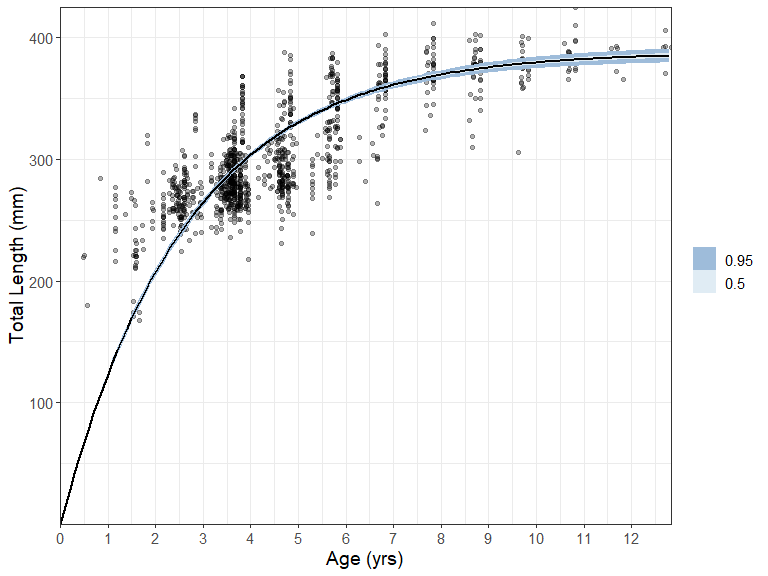
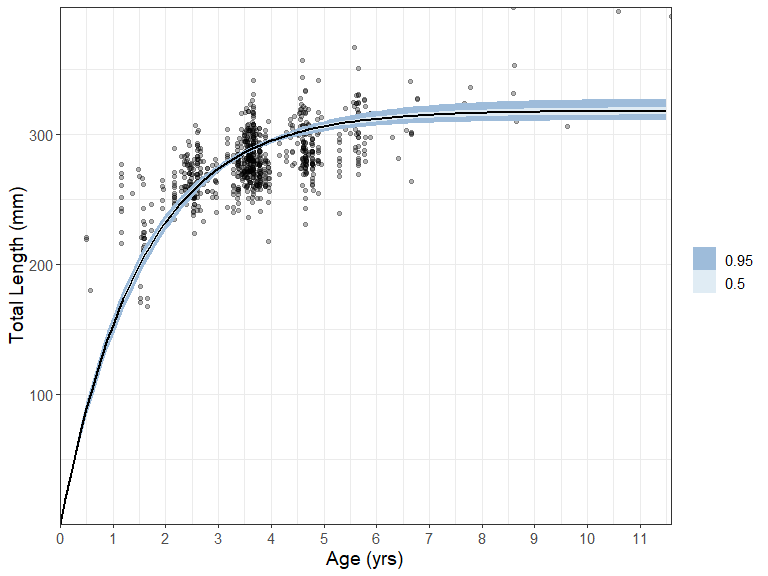
Readme updated

diff --git a/README.md b/README.md
@@ -1,30 +1,58 @@
 
 <!-- README.md is generated from README.Rmd. Please edit that file -->
-BayesGrowth
-===========
+
+# BayesGrowth
 
 <!-- badges: start -->
-[![Travis build status](https://travis-ci.org/jonathansmart/BayesGrowth.svg?branch=master)](https://travis-ci.org/jonathansmart/BayesGrowth) <!-- badges: end -->
 
-BayesGrowth combines length-at-age modelling for fisheries with MCMC implemented using JAGS and the [rjags](https://cran.r-project.org/web/packages/rjags/index.html) package. Growth modelling using models such as the von Bertalanffy growth model involves three parameters: *L*<sub>∞</sub>, *k* and either *L*<sub>0</sub> or *t*<sub>0</sub>. Two of these parameters: *L*<sub>0</sub> and *L*<sub>∞</sub> have direct biological meaning as the size-at-birth and maximum length, respectively. This package provides the tools to run an MCMC model with these two parameters treated as size-at-birth and maximum length using a JAGS model. This MCMC model is pre-specified and built into wrapper functions.
+[![Travis build
+status](https://travis-ci.org/jonathansmart/BayesGrowth.svg?branch=master)](https://travis-ci.org/jonathansmart/BayesGrowth)
+<!-- badges: end -->
 
-The user can therefore run an MCMC growth model using knowledge of species length-at-birth and maximum size as priors.
+BayesGrowth combines length-at-age modelling for fisheries with MCMC
+implemented using JAGS and the
+[rjags](https://cran.r-project.org/web/packages/rjags/index.html)
+package. Growth modelling using models such as the von Bertalanffy
+growth model involves three parameters: \(L_{\infty}\), \(k\) and either
+\(L_{0}\) or \(t_{0}\). Two of these parameters: \(L_{0}\) and
+\(L_{\infty}\) have direct biological meaning as the size-at-birth and
+maximum length, respectively. This package provides the tools to run an
+MCMC model with these two parameters treated as size-at-birth and
+maximum length using a JAGS model. This MCMC model is pre-specified and
+built into wrapper functions.
 
-Installation
-------------
+The user can therefore run an MCMC growth model using knowledge of
+species length-at-birth and maximum size as priors.
 
-This package provides a series of wrapper functions to the rjags package which will run JAGS ("Just Another Gibbs Sampler") MCMC models. Therefore, **JAGS must be installed before this package is installed**. To install JAGS, visit: <https://sourceforge.net/projects/mcmc-jags/files/>
+## Installation
 
-You can install the released version of BayesGrowth from [Github](https://github.com/jonathansmart/BayesGrowth) with:
+This package provides a series of wrapper functions to the rjags package
+which will run JAGS (“Just Another Gibbs Sampler”) MCMC models.
+Therefore, **JAGS must be installed before this package is installed**.
+To install JAGS, visit:
+<https://sourceforge.net/projects/mcmc-jags/files/>
+
+You can install the released version of BayesGrowth from
+[Github](https://github.com/jonathansmart/BayesGrowth) with:
 
 ``` r
 devtools::install_github("jonathansmart/BayesGrowth")
 ```
 
-Usage
------
+## Usage
 
-The main `BayesGrowth` function is `Estimate_MCMC_Growth` which is the wrapper function around an rjags model. It requires a data input that includes columns that can be identified "Age" and "Length", the model needs to be specified (several options are available) and the priors must be specified. Priors include the max size with an error, length-at-birth with an error and upper limits for *k* and *σ*. These latter two parameters have no informative priors and only require sensible upper bounds. Many fish species (including this example) have a size at birth of zero. Therefore, this can value can be used as a prior along with a very small error to indicate high certainty of this prior. The `L0.se` argument cannot be zero, but the model is specified to truncate *L*<sub>0</sub> at zero and keep growth positive.
+The main `BayesGrowth` function is `Estimate_MCMC_Growth` which is the
+wrapper function around an rjags model. It requires a data input that
+includes columns that can be identified “Age” and “Length”, the model
+needs to be specified (several options are available) and the priors
+must be specified. Priors include the max size with an error,
+length-at-birth with an error and upper limits for \(k\) and \(\sigma\).
+These latter two parameters have no informative priors and only require
+sensible upper bounds. Many fish species (including this example) have a
+size at birth of zero. Therefore, this can value can be used as a prior
+along with a very small error to indicate high certainty of this prior.
+The `L0.se` argument cannot be zero, but the model is specified to
+truncate \(L_{0}\) at zero and keep growth positive.
 
 ``` r
 library(BayesGrowth)
@@ -32,22 +60,23 @@ library(BayesGrowth)
 data("example_data")
 ## Biological info - lengths in mm
 max_size <- 440
-max_size_se <- 4.4
+max_size_se <- 5
 birth_size <- 0
 birth_size_se <- 0.001 # an se cannot be zero
 
 # Use the function to estimate the JAGS model
 results <- Estimate_MCMC_Growth(example_data, Model = "VB" ,
                      iter = 10000,
-                     Linf = 440,
-                     Linf.se = 4.4,
-                     L0 = 0,
+                     Linf = max_size,
+                     Linf.se = max_size_se,
+                     L0 = birth_size,
                      sigma.max = 100,
-                     L0.se = .001,
+                     L0.se = birth_size_se,
                      k.max = 1)
 ```
 
-The function returns the rjags outputs which is an object of class 'mcmc.list'
+The function returns the rjags outputs which is an object of class
+‘mcmc.list’
 
 ``` r
 head(results)
@@ -57,13 +86,13 @@ head(results)
 #> End = 1007 
 #> Thinning interval = 1 
 #>                L0     Linf         k    sigma
-#> [1,] 9.569273e-04 390.1958 0.3848924 33.85797
-#> [2,] 4.067566e-04 387.0640 0.3834602 33.34804
-#> [3,] 1.413548e-04 389.4191 0.3749205 32.69723
-#> [4,] 4.676487e-04 390.5338 0.3762362 33.01676
-#> [5,] 6.423364e-05 390.5068 0.3774113 33.06027
-#> [6,] 4.414119e-04 389.8423 0.3789968 32.41419
-#> [7,] 1.287751e-03 387.0774 0.3803874 32.67245
+#> [1,] 1.483223e-04 317.9185 0.6584323 23.09712
+#> [2,] 1.088073e-04 314.9857 0.7077662 23.94156
+#> [3,] 6.927317e-04 312.7845 0.6974341 24.31017
+#> [4,] 1.094180e-03 313.6392 0.6831496 23.85641
+#> [5,] 2.335037e-04 313.6508 0.6846770 23.45256
+#> [6,] 3.932446e-05 315.5822 0.6830659 23.71317
+#> [7,] 1.172375e-03 315.3345 0.6751340 23.89506
 #> 
 #> [[2]]
 #> Markov Chain Monte Carlo (MCMC) output:
@@ -71,13 +100,13 @@ head(results)
 #> End = 1007 
 #> Thinning interval = 1 
 #>                L0     Linf         k    sigma
-#> [1,] 0.0002511498 385.9061 0.3899029 33.57525
-#> [2,] 0.0012376698 386.5598 0.3883286 33.40353
-#> [3,] 0.0012621650 383.8936 0.3944821 33.08603
-#> [4,] 0.0003852762 383.3767 0.3925615 32.69749
-#> [5,] 0.0019371831 383.5260 0.3937610 33.82304
-#> [6,] 0.0015517513 381.7044 0.3995990 33.05927
-#> [7,] 0.0014588565 381.7352 0.3988780 34.05518
+#> [1,] 6.244722e-06 321.6067 0.6252368 24.62203
+#> [2,] 2.099683e-04 321.0802 0.6310686 25.22636
+#> [3,] 8.470106e-04 320.1362 0.6363388 24.55732
+#> [4,] 1.172123e-03 319.3396 0.6474557 24.62156
+#> [5,] 2.530439e-04 319.2197 0.6509728 24.56522
+#> [6,] 8.747307e-04 319.4180 0.6429824 24.36231
+#> [7,] 8.581534e-04 320.1235 0.6472748 24.40982
 #> 
 #> [[3]]
 #> Markov Chain Monte Carlo (MCMC) output:
@@ -85,13 +114,13 @@ head(results)
 #> End = 1007 
 #> Thinning interval = 1 
 #>                L0     Linf         k    sigma
-#> [1,] 1.769096e-03 391.2649 0.3757260 33.11727
-#> [2,] 5.758551e-04 389.8574 0.3779173 34.59689
-#> [3,] 8.458344e-04 391.0381 0.3741445 35.18781
-#> [4,] 3.349123e-05 392.1897 0.3727302 32.44165
-#> [5,] 6.751491e-04 391.1179 0.3709289 32.27036
-#> [6,] 1.079350e-03 390.8434 0.3763794 35.27099
-#> [7,] 1.512822e-03 390.0623 0.3726670 32.71365
+#> [1,] 0.0009256165 316.2487 0.6827975 24.43492
+#> [2,] 0.0010140519 315.3772 0.6783669 24.11184
+#> [3,] 0.0008368855 317.7474 0.6500937 24.24865
+#> [4,] 0.0002750489 320.1016 0.6347589 25.09238
+#> [5,] 0.0007506519 320.7512 0.6389933 25.46154
+#> [6,] 0.0008077506 320.9486 0.6390802 25.15107
+#> [7,] 0.0002158804 320.5103 0.6344164 25.07480
 #> 
 #> [[4]]
 #> Markov Chain Monte Carlo (MCMC) output:
@@ -99,13 +128,13 @@ head(results)
 #> End = 1007 
 #> Thinning interval = 1 
 #>                L0     Linf         k    sigma
-#> [1,] 0.0002970924 383.3299 0.3942570 33.33363
-#> [2,] 0.0008734722 384.7989 0.3919450 33.05928
-#> [3,] 0.0001001651 384.8165 0.3873583 32.98044
-#> [4,] 0.0008350172 385.2169 0.3872892 34.19510
-#> [5,] 0.0002610241 386.6675 0.3882188 32.18001
-#> [6,] 0.0007794328 387.7779 0.3881649 34.64965
-#> [7,] 0.0021415681 385.6544 0.3871649 33.03116
+#> [1,] 0.0006687971 320.6138 0.6449687 25.43026
+#> [2,] 0.0017699870 319.3084 0.6429564 23.57450
+#> [3,] 0.0003399080 318.0155 0.6445651 24.27122
+#> [4,] 0.0001095932 319.8841 0.6245990 24.35767
+#> [5,] 0.0015312030 320.4358 0.6315083 25.62919
+#> [6,] 0.0001178656 320.5521 0.6444621 23.69427
+#> [7,] 0.0022664313 318.0471 0.6451985 23.46126
 #> 
 #> attr(,"class")
 #> [1] "mcmc.list"
@@ -124,25 +153,31 @@ summary(results)
 #> 1. Empirical mean and standard deviation for each variable,
 #>    plus standard error of the mean:
 #> 
-#>            Mean        SD  Naive SE Time-series SE
-#> L0    7.988e-04 0.0006075 3.037e-06      3.035e-06
-#> Linf  3.880e+02 3.1719584 1.586e-02      6.236e-02
-#> k     3.819e-01 0.0086671 4.334e-05      1.752e-04
-#> sigma 3.354e+01 0.7682464 3.841e-03      7.245e-03
+#>            Mean       SD  Naive SE Time-series SE
+#> L0    7.962e-04 0.000604 3.020e-06      3.006e-06
+#> Linf  3.183e+02 4.255942 2.128e-02      1.466e-01
+#> k     6.579e-01 0.035325 1.766e-04      1.208e-03
+#> sigma 2.436e+01 0.891578 4.458e-03      2.287e-02
 #> 
 #> 2. Quantiles for each variable:
 #> 
 #>            2.5%       25%       50%       75%     97.5%
-#> L0    3.233e-05 3.154e-04 6.724e-04   0.00115 2.274e-03
-#> Linf  3.818e+02 3.859e+02 3.880e+02 390.16533 3.943e+02
-#> k     3.652e-01 3.760e-01 3.817e-01   0.38755 3.994e-01
-#> sigma 3.206e+01 3.302e+01 3.353e+01  34.04812 3.509e+01
+#> L0    3.154e-05 3.161e-04 6.690e-04 1.149e-03 2.254e-03
+#> Linf  3.109e+02 3.154e+02 3.180e+02 3.210e+02 3.277e+02
+#> k     5.873e-01 6.344e-01 6.583e-01 6.816e-01 7.268e-01
+#> sigma 2.273e+01 2.374e+01 2.432e+01 2.494e+01 2.624e+01
 plot(results,density = T, smooth = F)
 ```
 
 <img src="man/figures/README-Diagnostics-1.png" width="100%" />
 
-Additional `BayesGrowth` functions are available that help the user manipulate the returned `Estimate_MCMC_Growth` object. The `Calculate_MCMC_growth_curve` function will provide confidence intervals around the growth curve based on MCMC parameter percentiles. This is essentially a wrapper around the `tidybayes::mean_qi()` function which means it can be passed straight into a ggplot with the `tidybayes::geom_line_ribbon` function.
+Additional `BayesGrowth` functions are available that help the user
+manipulate the returned `Estimate_MCMC_Growth` object. The
+`Calculate_MCMC_growth_curve` function will provide confidence intervals
+around the growth curve based on MCMC parameter percentiles. This is
+essentially a wrapper around the `tidybayes::mean_qi()` function which
+means it can be passed straight into a ggplot with the
+`tidybayes::geom_line_ribbon` function.
 
 ``` r
 
@@ -165,6 +200,9 @@ ggplot(growth_curve, aes(Age, LAA))+
 
 <img src="man/figures/README-plot-1.png" width="100%" />
 
-This represents a much improved fit over a standard non-linear estimated model, even if the length-at-birth were fixed at zero. Here the fit is compared using an nls model fit using the [AquaticLifeHistory package](https://github.com/jonathansmart/AquaticLifeHistory).
+This represents a much improved fit over a standard non-linear estimated
+model, even if the length-at-birth were fixed at zero. Here the fit is
+compared using an nls model fit using the [AquaticLifeHistory
+package](https://github.com/jonathansmart/AquaticLifeHistory).
 
 <img src="man/figures/README-compare_plot-1.png" width="100%" />
